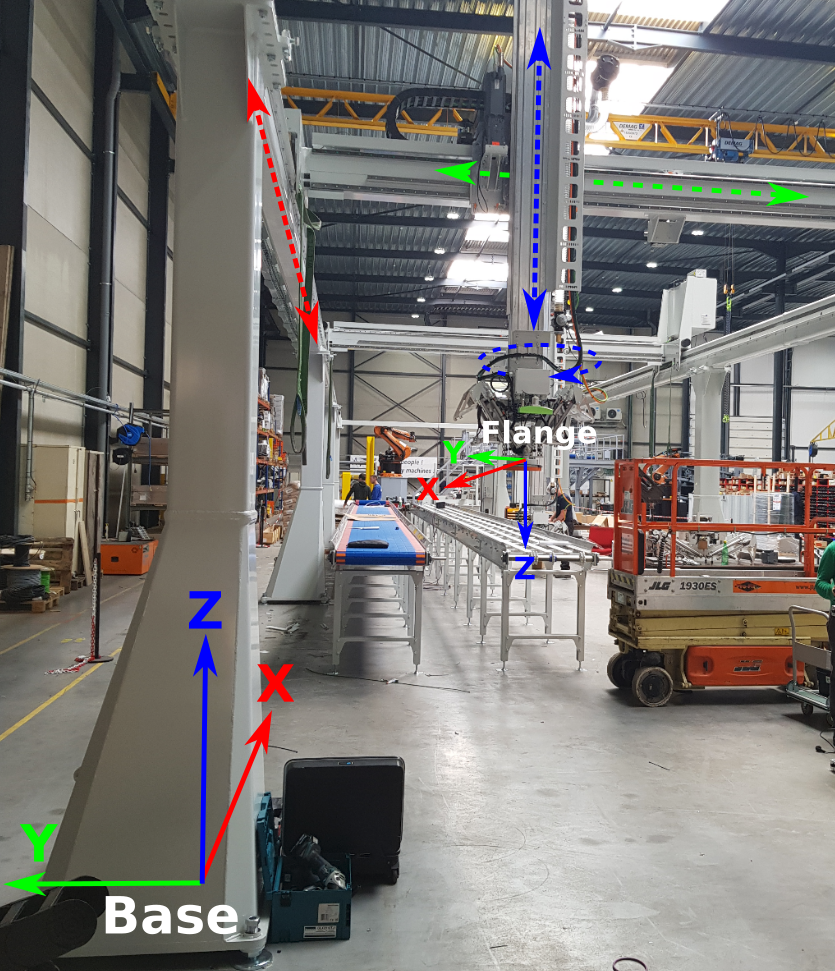
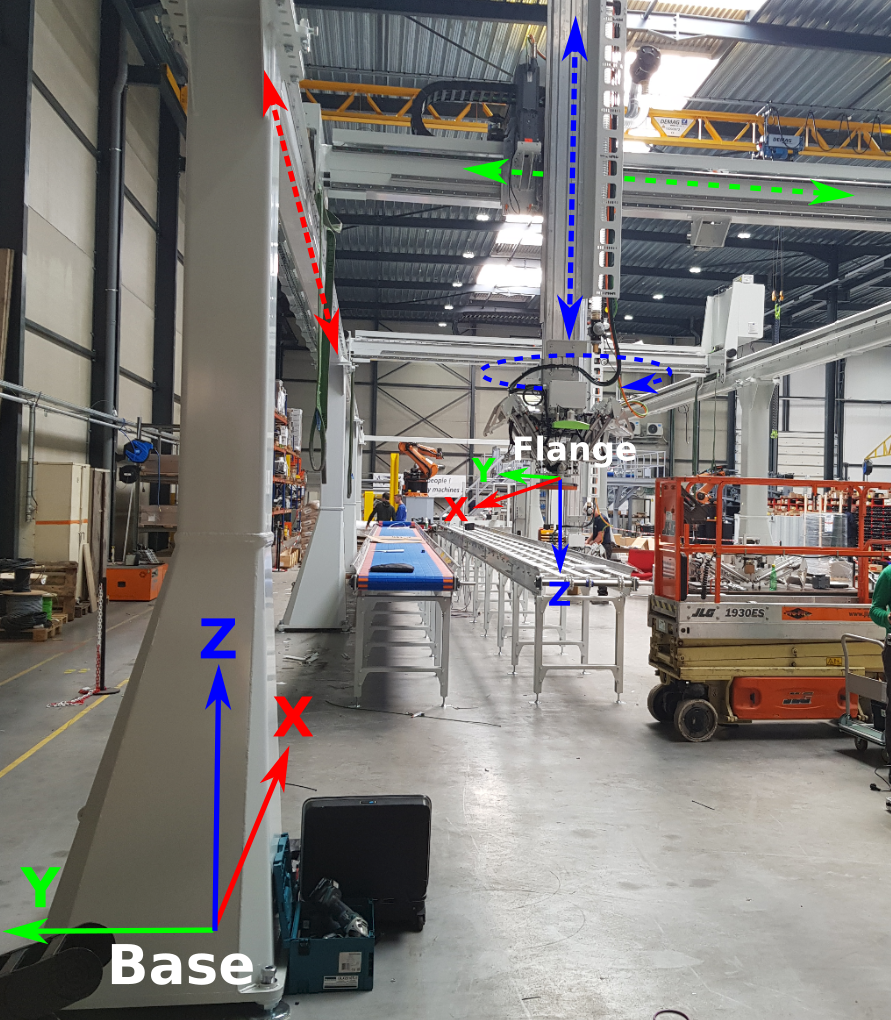
Fix circular arrows, highlight distance gain in image and text.

diff --git a/docs/examples/pickit-example-case-depalletizing-buckets.rst b/docs/examples/pickit-example-case-depalletizing-buckets.rst
@@ -66,7 +66,8 @@ These robots consist in three movable axes, allowing the flange to translate in 
    :scale: 70 %
    :align: center
 
-In the example below, the camera is mounted on an extension, highlighted in yellow, so that it can face the scene at a higher distance.
+In the example below, the camera is mounted on an extension, to make sure that the highest layer of the pallet is captured.
+The gained distance is highlighted in yellow.
 
 .. image:: /assets/images/examples/example_gantry_extension.png
 
